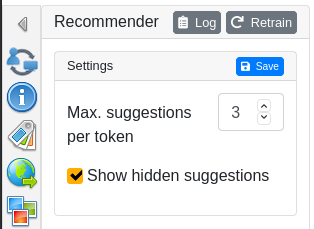
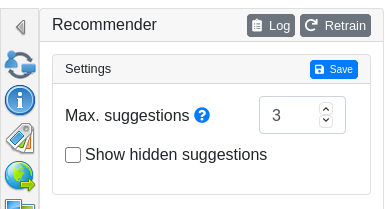
#1883 - Clearer label in recommendation sidebar
- Undo label renaming
- Add (?) which links to the corresponding part in the user guide
- Update the user guide

Changed region(s): [[0.0, 0.0, 1.0, 1.0], [0.172, 0.2297, 0.2006, 0.2584]]

diff --git a/inception-recommendation/src/main/java/de/tudarmstadt/ukp/inception/recommendation/sidebar/RecommendationSidebar.html b/inception-recommendation/src/main/java/de/tudarmstadt/ukp/inception/recommendation/sidebar/RecommendationSidebar.html
@@ -50,7 +50,11 @@
             </div>
             <div class="card-body">
               <div class="form-group form-row" wicket:enclosure="maxPredictions">
-                <label class="col-sm-8 col-form-label"><wicket:message key="maxSuggestions"/></label>
+                <label class="col-sm-8 col-form-label"><wicket:message key="maxSuggestions"/>
+                    <a target="_blank" wicket:message="href:max.suggestions.help.link">
+                        <i class="fas fa-question-circle"></i>
+                    </a>
+                </label>
                 <div class="col-sm-4">
                   <input wicket:id="maxPredictions" type="number" class="form-control"/>
                 </div>
